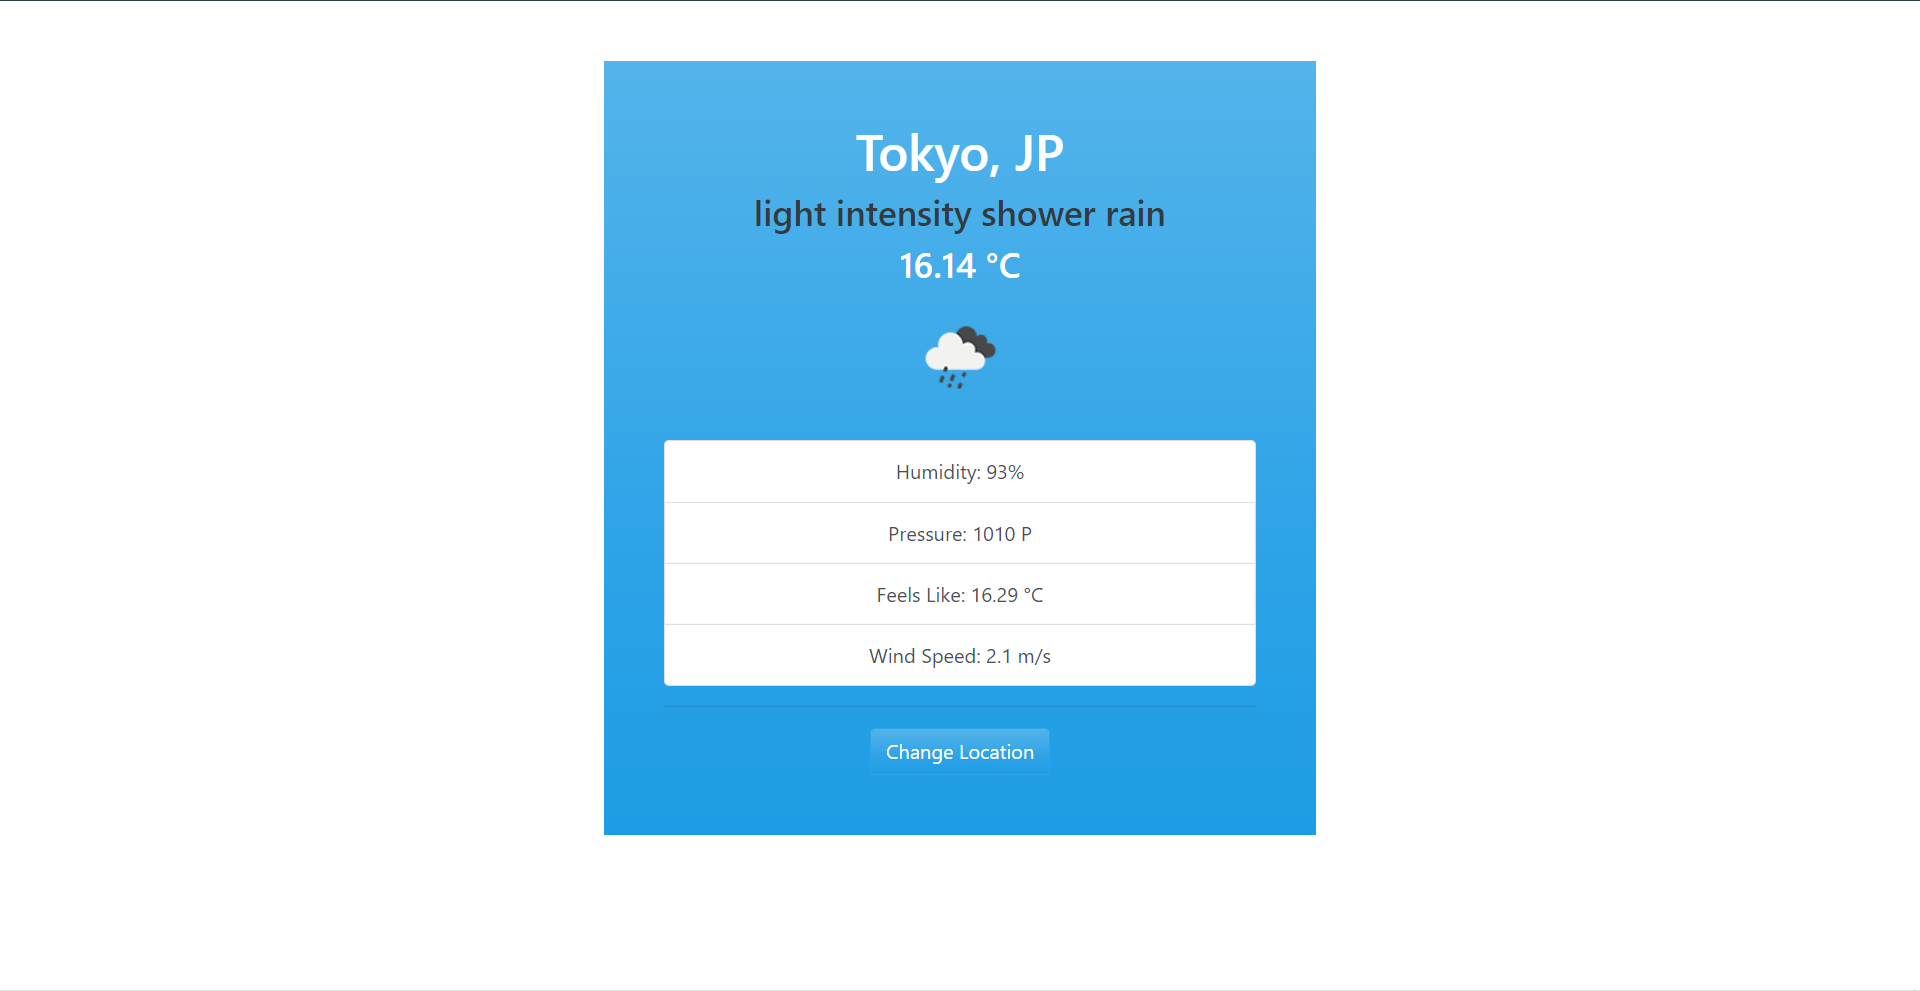
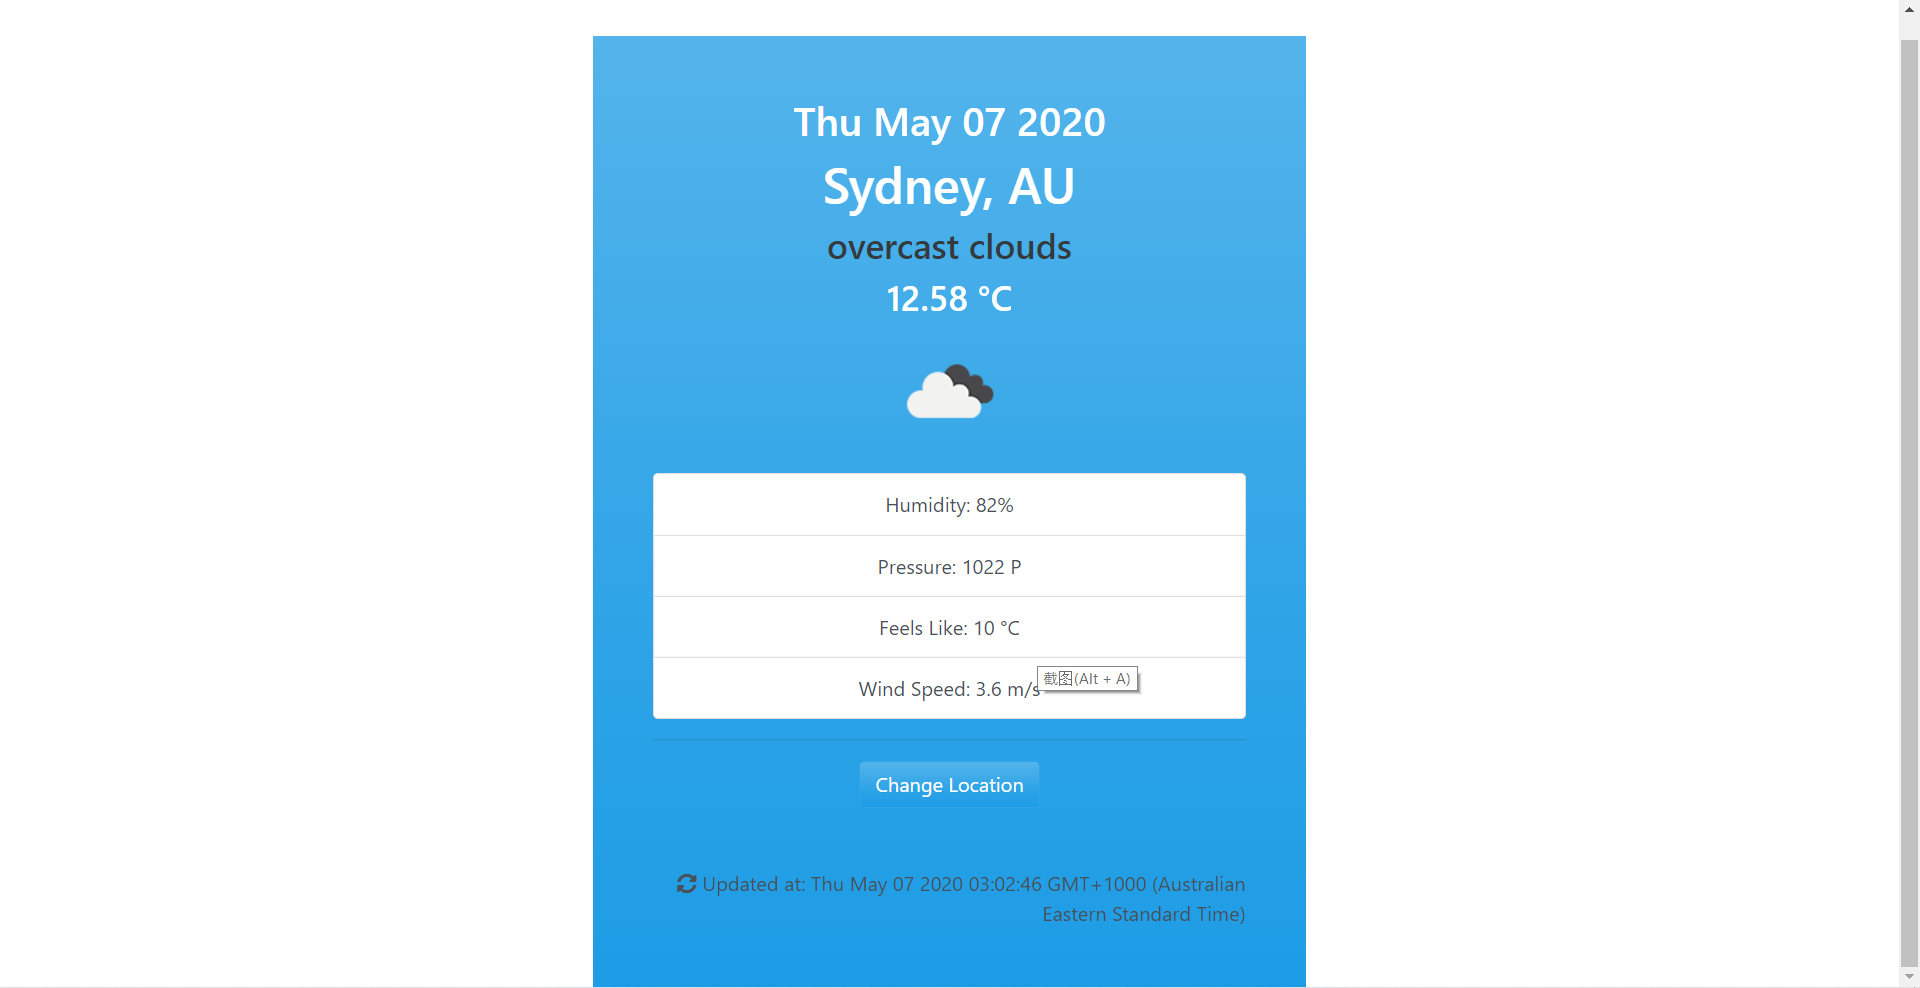
added data and update time & able to refresh now

Changed region(s): [[0.2812, 0.0304, 0.6875, 1.0], [0.9688, 0.0304, 1.0, 0.9717]]

diff --git a/app.js b/app.js
@@ -20,11 +20,36 @@ document.getElementById("w-change-btn").addEventListener("click", e => {
 
   // Store into localstorage
   storage.setLocationData(city, country)
+
+  // Update Time
+  getTime()
 })
+
+document.querySelector("p").addEventListener("click", refresh)
+
+function refresh(e) {
+  if (e.target.classList.contains("fas")) {
+    getWeather()
+  }
+}
 
 function getWeather() {
   weather
     .getWeather()
     .then(result => ui.paint(result))
     .catch(err => console.log(err))
+  getTime()
+  getDate()
+}
+
+// Get full current time
+function getTime() {
+  const now = new Date()
+  ui.addCurrentTime(now)
+}
+
+// Get current date
+function getDate() {
+  const dataObj = new Date().toDateString()
+  ui.addCurrentDate(dataObj)
 }

diff --git a/index.html b/index.html
@@ -7,12 +7,18 @@
       rel="stylesheet"
       href="https://bootswatch.com/4/cerulean/bootstrap.min.css"
     />
+    <script
+      src="https://kit.fontawesome.com/4f2560ad61.js"
+      crossorigin="anonymous"
+    ></script>
+
     <title>Weather JS</title>
   </head>
   <body>
     <div class="container">
       <div class="row">
         <div class="col-md-6 mx-auto text-center bg-primary mt-5 p-5">
+          <h2 id="date"></h2>
           <h1 id="w-location"></h1>
           <h3 class="text-dark" id="w-desc"></h3>
           <h3 id="w-string"></h3>
@@ -32,6 +38,8 @@
           >
             Change Location
           </button>
+
+          <p id="now" class="text-right mt-5 mb-0"></p>
         </div>
       </div>
     </div>

diff --git a/ui.js b/ui.js
@@ -27,4 +27,26 @@ class UI {
 
     this.wind.textContent = `Wind Speed: ${weather.wind.speed} m/s`
   }
+
+  addCurrentTime(time) {
+    const now = document.getElementById("now")
+
+    /* const a = document.createElement("a")
+    const i = document.createElement("i")
+    i.setAttribute("class", "fas fa-sync-alt")
+    a.appendChild(i)
+    let str = a.outerHTML */
+
+    const refreshIcon = `
+      <a style='cursor:pointer'>
+        <i class='fas fa-sync-alt'></i>
+      </a>
+      `
+    now.innerHTML = `${refreshIcon} Updated at: ${time}`
+  }
+
+  addCurrentDate(date) {
+    const dateUi = document.getElementById("date")
+    dateUi.innerHTML = `${date}`
+  }
 }
